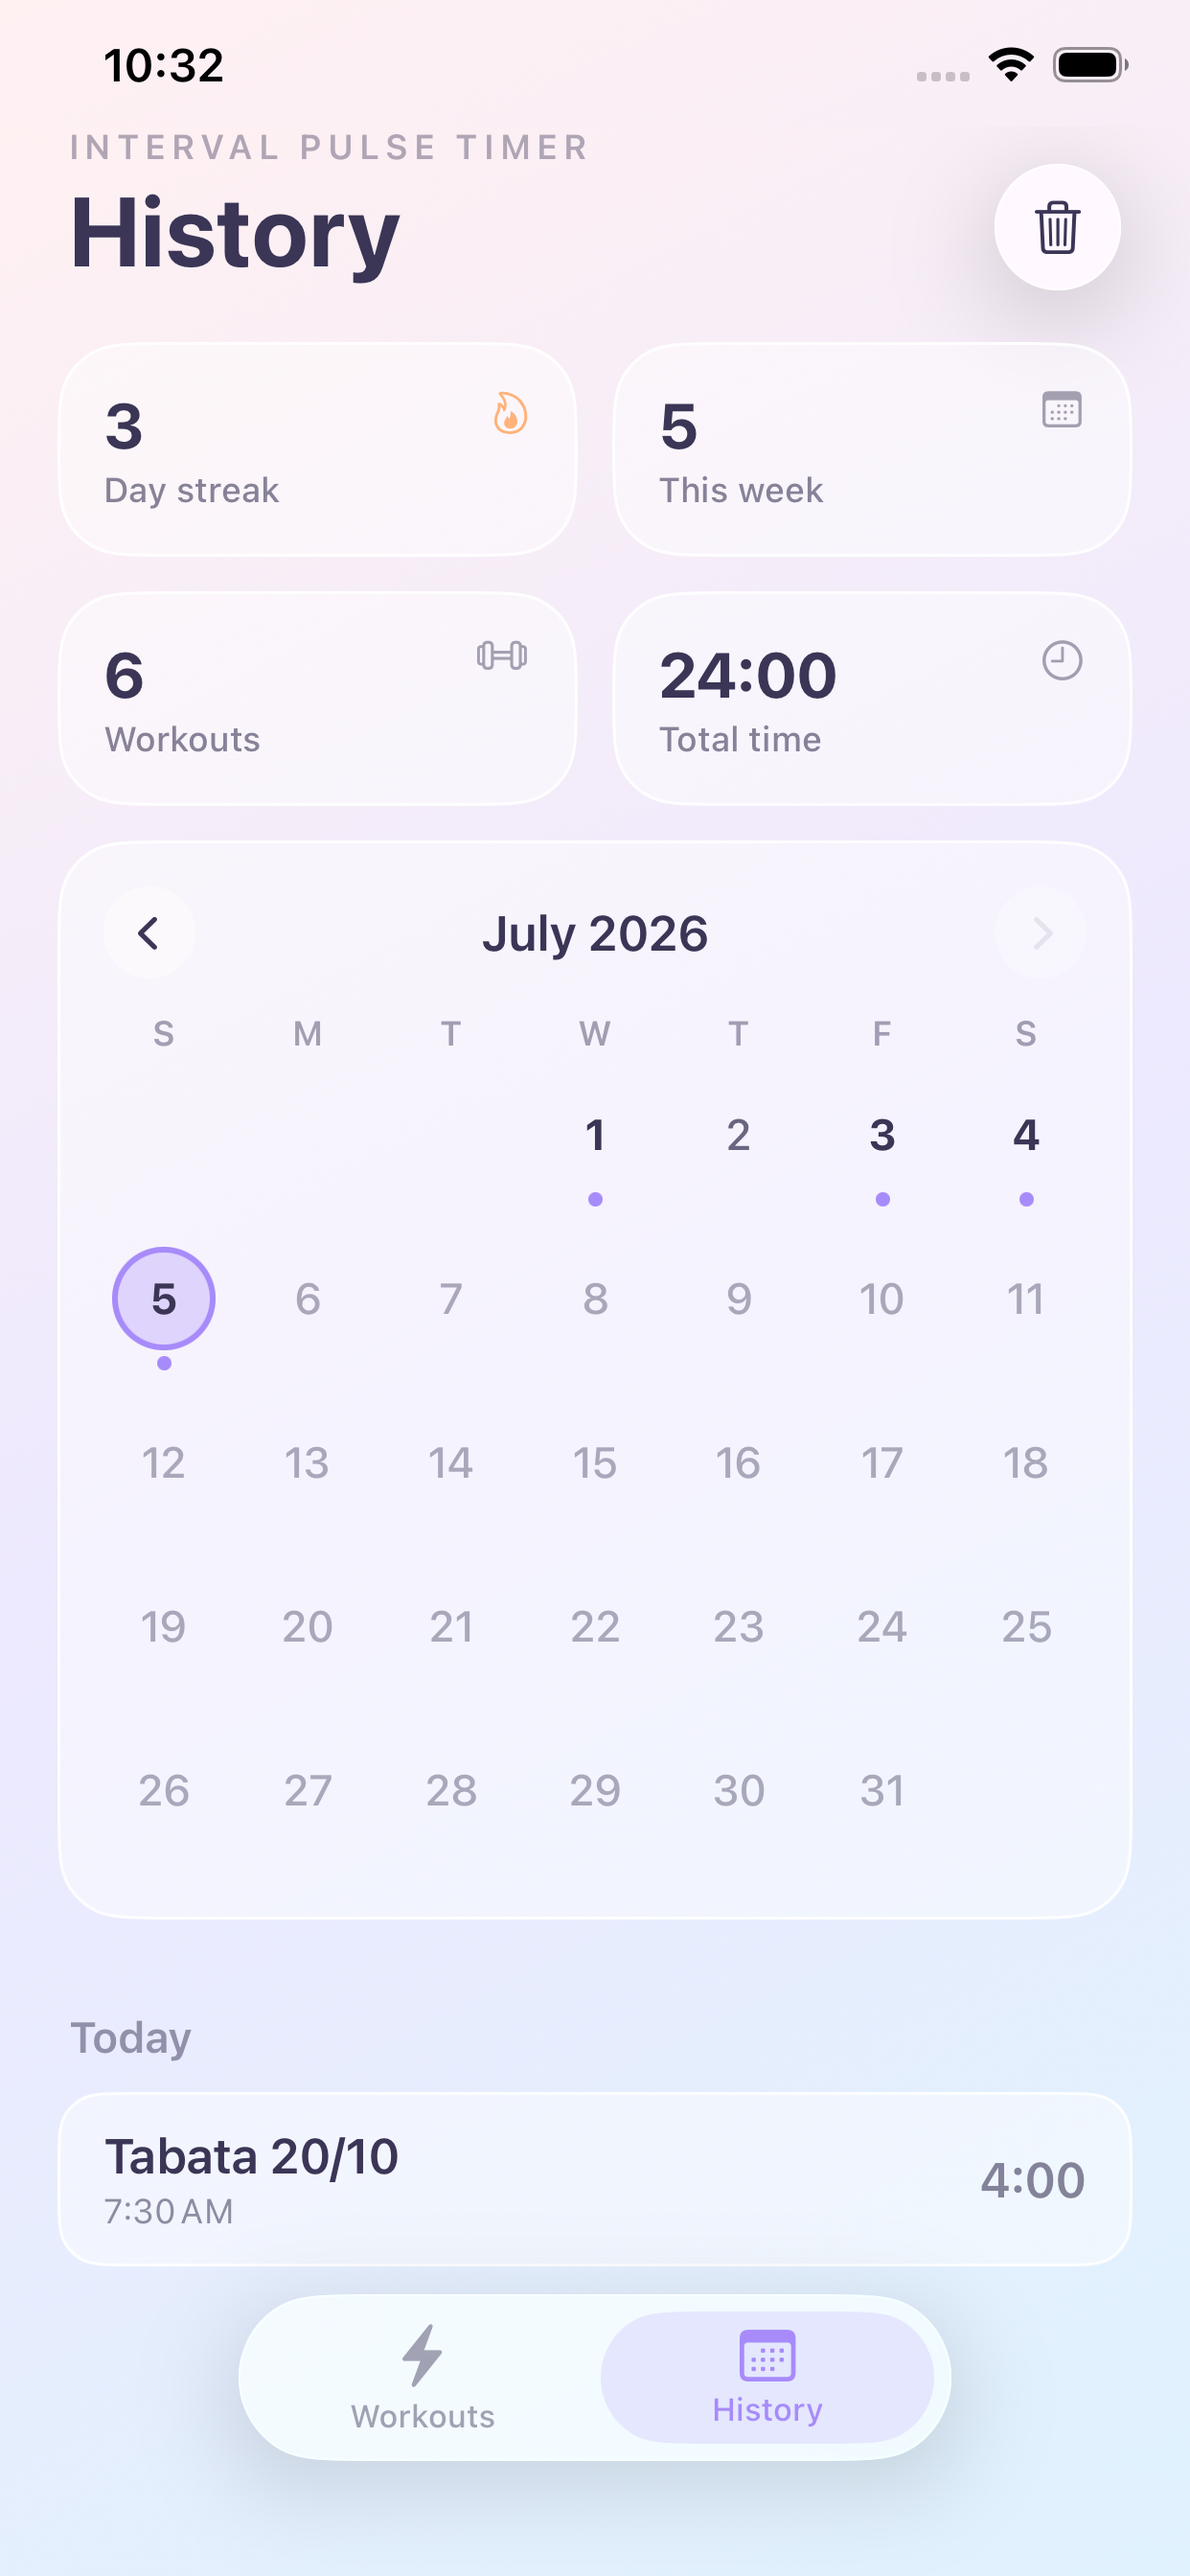
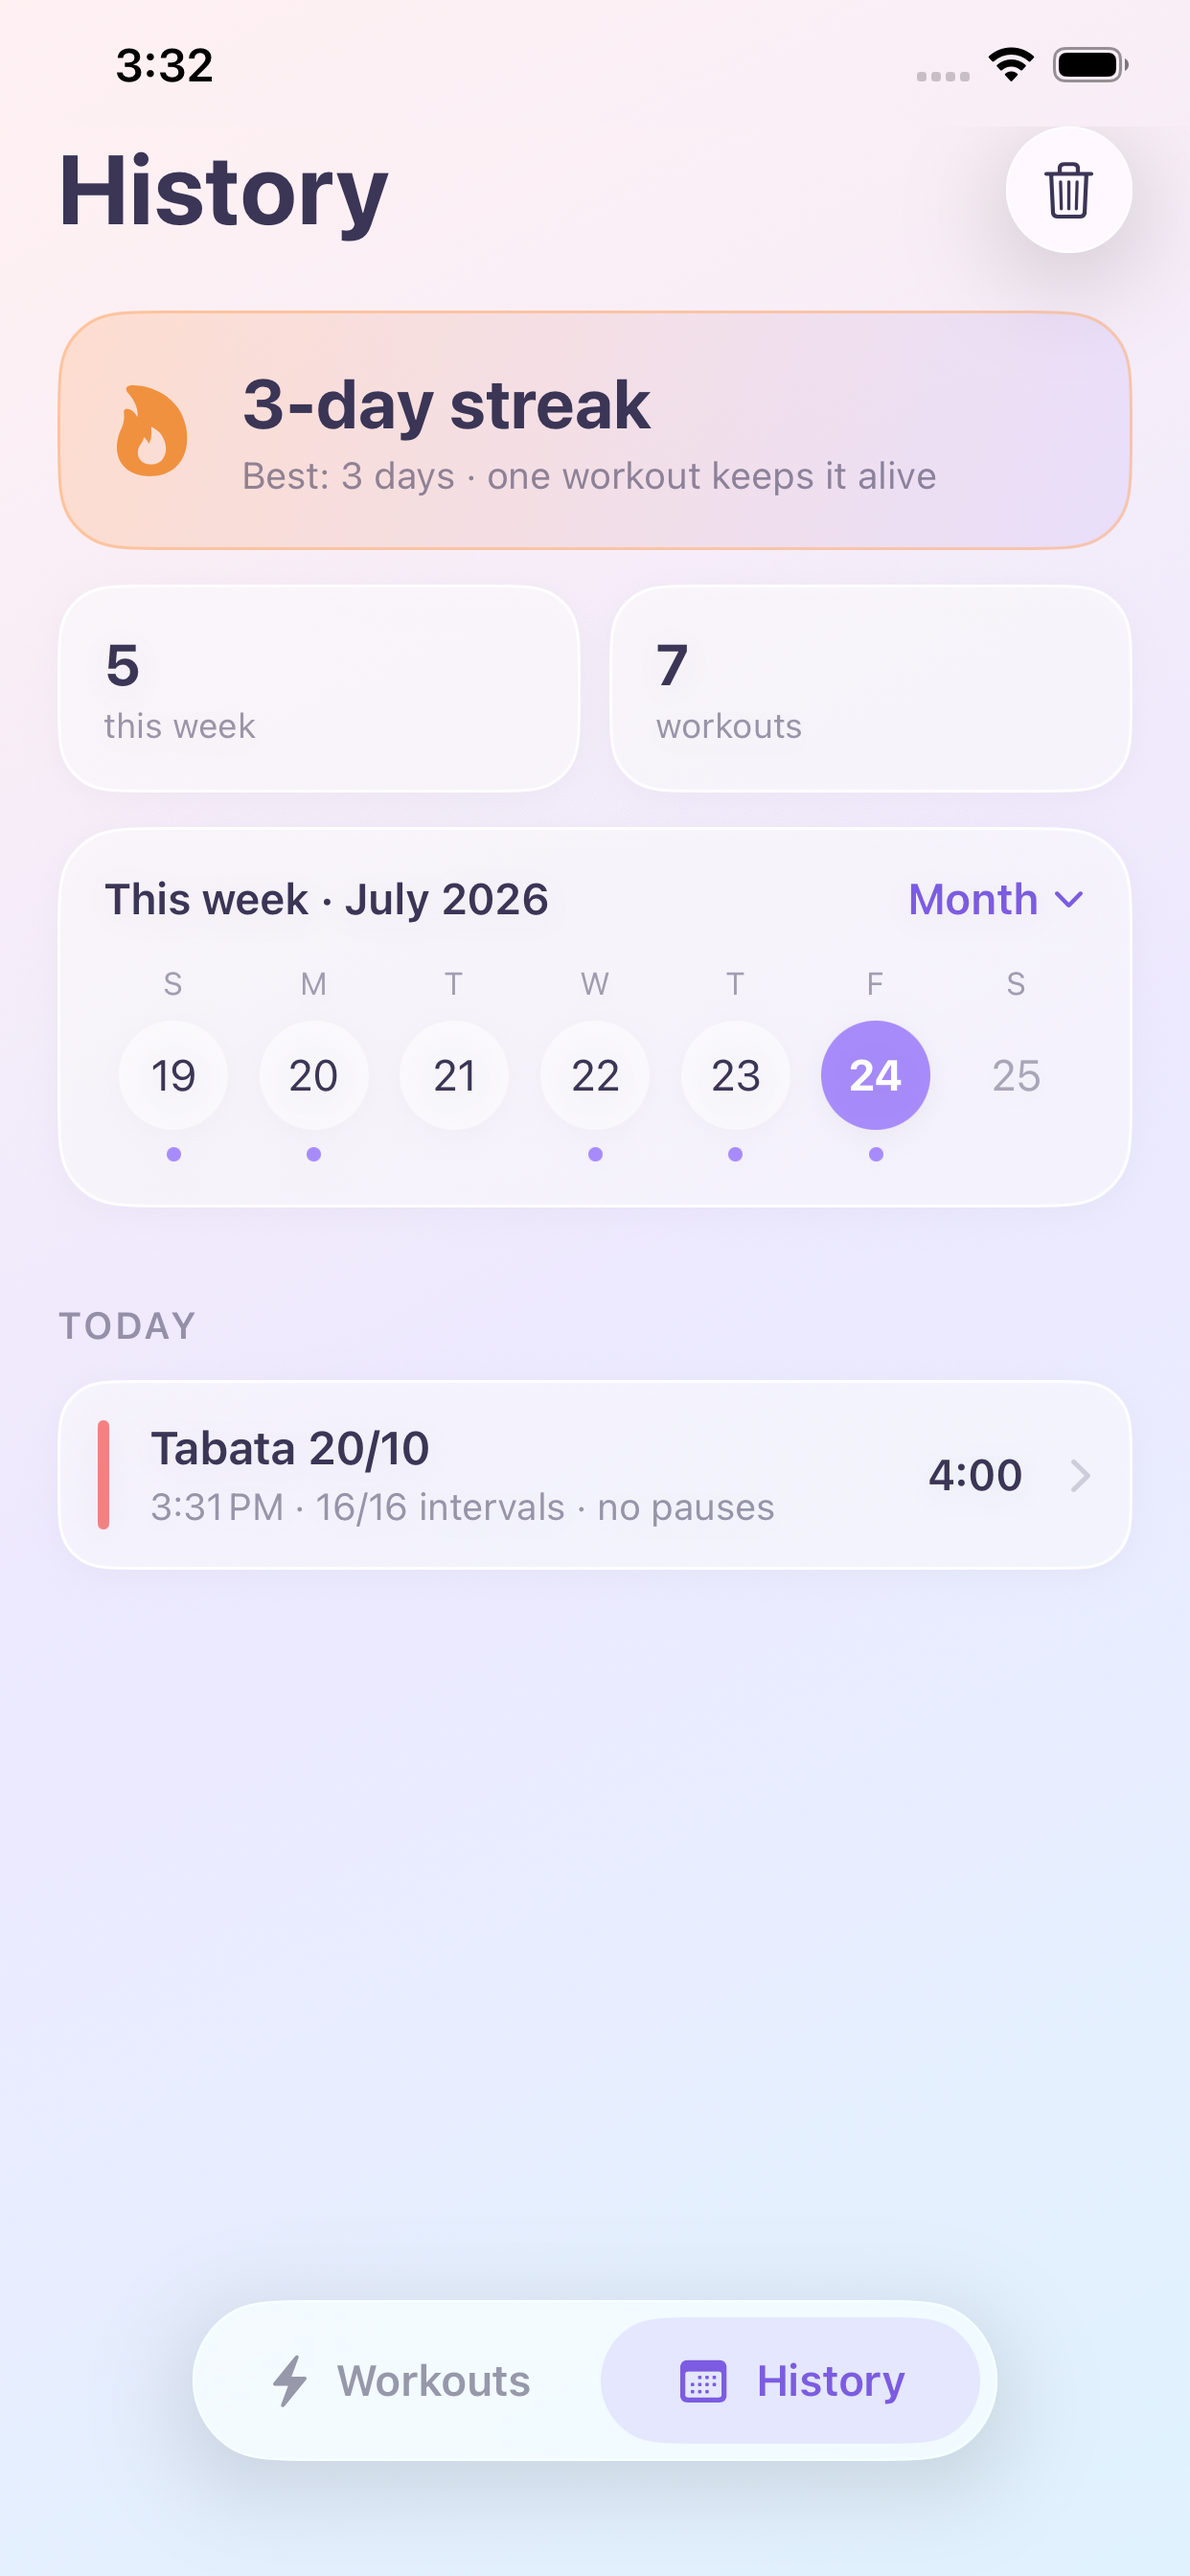
chore(release): build 11, refresh App Store screenshots
All eight shots recaptured against the 1.7 redesign — the old ones still
showed the 1.6 History (four tiles, month calendar) and the ring run screen.
The run shots are the Flood style mid-interval, so the segment bar's fill is
visible. Captured with the temporary XCUITest harnesses, removed again here.

diff --git a/docs/app-store-connect-info.md b/docs/app-store-connect-info.md
@@ -14,7 +14,7 @@ Everything needed to fill out the App Store Connect listing for Interval Pulse T
 | Secondary Category | Sports (optional) |
 | Team / Apple Developer | DZRPJF9JB6 |
 | Version (Marketing) | 1.7 |
-| Build number | 10 |
+| Build number | 11 |
 | Price | Free (or your choice) |
 | Copyright | © 2026 Norman Hoang |
 
